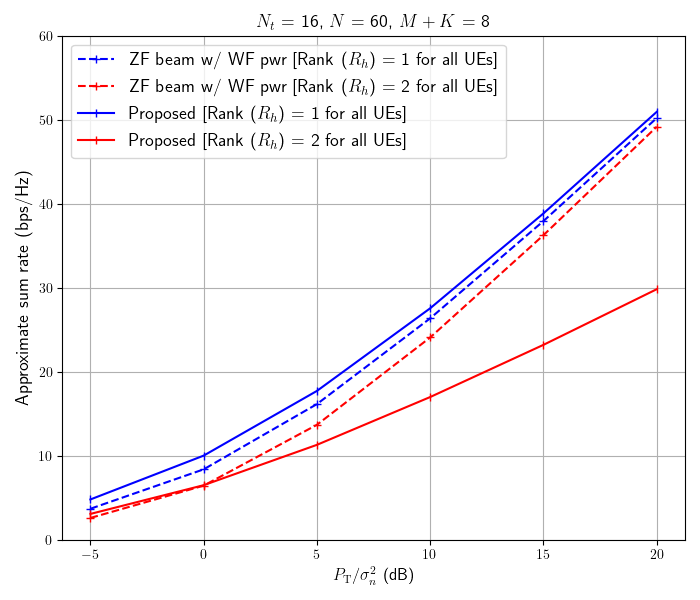
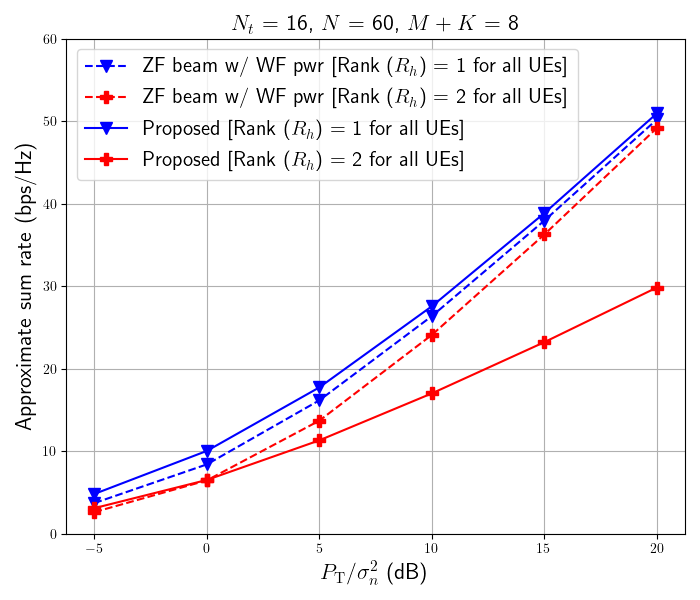
added

diff --git a/plot3.py b/plot3.py
@@ -46,34 +46,34 @@ plt.figure(figsize=(7, 6))
 
 # Plot lines
 #plottingLine(rateZF6, 'ZF-SBF [M+K=6]', 'dotted', 'red', '+')
-plottingLine(rateNNSuper6, 'Proposed [M+K=6]', 'solid', 'red', 'o')
-plottingLine(rateWF6, 'ZF beam w/ WF pwr [M+K=6]', 'dashed', 'red', 'x')
+plottingLine(rateNNSuper6, 'Proposed [M+K=6]', 'solid', 'red', 'P')
+plottingLine(rateWF6, 'ZF beam w/ WF pwr [M+K=6]', 'dashed', 'red', 'P')
 
 #plottingLine(rateZF8, 'ZF-SBF [M+K=8]', 'dotted', 'green', '+')
-plottingLine(rateNNSuper8, 'Proposed [M+K=8]', 'solid', 'green', 'o')
-plottingLine(rateWF8, 'ZF beam w/ WF pwr [M+K=8]', 'dashed', 'green', 'x')
+plottingLine(rateNNSuper8, 'Proposed [M+K=8]', 'solid', 'green', 'v')
+plottingLine(rateWF8, 'ZF beam w/ WF pwr [M+K=8]', 'dashed', 'green', 'v')
 
 #plottingLine(rateZF10, 'ZF-SBF [M+K=10]', 'dotted', 'blue', '+')
-plottingLine(rateNNSuper10, 'Proposed [M+K=10]', 'solid', 'blue', 'o')
-plottingLine(rateWF10, 'ZF beam w/ WF pwr [M+K=10]', 'dashed', 'blue', 'x')
+plottingLine(rateNNSuper10, 'Proposed [M+K=10]', 'solid', 'blue', 'd')
+plottingLine(rateWF10, 'ZF beam w/ WF pwr [M+K=10]', 'dashed', 'blue', 'd')
 
 # Legend
-plt.legend(loc='upper left', ncol=1, fontsize=13)
+plt.legend(loc='upper left', ncol=1, fontsize=16)
 plt.ylim([global_ymin, global_ymax])
 
 # Axes labels
 plt.rc('text', usetex=True)
-plt.xlabel(r'$P_{\mathrm{T}}/\sigma_n^2$ (dB)', fontsize=12)
-plt.ylabel('Approximate sum rate (bps/Hz)', fontsize=13)
+plt.xlabel(r'$P_{\mathrm{T}}/\sigma_n^2$ (dB)', fontsize=16)
+plt.ylabel('Approximate sum rate (bps/Hz)', fontsize=16)
 
 # Title
-plt.title(r'$N_t$ = {}, N = {}'.format(Nt, N), fontsize=13)
+plt.title(r'$N_t$ = {}, N = {}'.format(Nt, N), fontsize=16)
 
 plt.grid(True) 
 plt.tight_layout()  # Adjust layout to prevent clipping of legend
 #plt.savefig(f'Plotting/fig3.tiff')  
 plt.savefig(f'Plotting/fig3.png')  
-#plt.savefig('Plotting/fig3.eps', format='eps') 
+plt.savefig('Plotting/fig3.eps', format='eps') 
 plt.close()
 
 print("Done!")

diff --git a/plot2.py b/plot2.py
@@ -46,34 +46,34 @@ plt.figure(figsize=(7, 6))
 
 # Plot lines
 #plottingLine(rateZF6, 'ZF-SBF [M+K=6]', 'dotted', 'red', '+')
-plottingLine(rateNNSuper6, 'Proposed [M+K=6]', 'solid', 'red', 'o')
-plottingLine(rateWF6, 'ZF beam w/ WF pwr [M+K=6]', 'dashed', 'red', 'x')
+plottingLine(rateNNSuper6, 'Proposed [M+K=6]', 'solid', 'red', 'P')
+plottingLine(rateWF6, 'ZF beam w/ WF pwr [M+K=6]', 'dashed', 'red', 'P')
 
 #plottingLine(rateZF8, 'ZF-SBF [M+K=8]', 'dotted', 'green', '+')
-plottingLine(rateNNSuper8, 'Proposed [M+K=8]', 'solid', 'green', 'o')
-plottingLine(rateWF8, 'ZF beam w/ WF pwr [M+K=8]', 'dashed', 'green', 'x')
+plottingLine(rateNNSuper8, 'Proposed [M+K=8]', 'solid', 'green', 'v')
+plottingLine(rateWF8, 'ZF beam w/ WF pwr [M+K=8]', 'dashed', 'green', 'v')
 
 #plottingLine(rateZF10, 'ZF-SBF [M+K=10]', 'dotted', 'blue', '+')
-plottingLine(rateNNSuper10, 'Proposed [M+K=10]', 'solid', 'blue', 'o')
-plottingLine(rateWF10, 'ZF beam w/ WF pwr [M+K=10]', 'dashed', 'blue', 'x')
+plottingLine(rateNNSuper10, 'Proposed [M+K=10]', 'solid', 'blue', 'd')
+plottingLine(rateWF10, 'ZF beam w/ WF pwr [M+K=10]', 'dashed', 'blue', 'd')
 
 # Legend
-plt.legend(loc='upper left', ncol=1, fontsize=13)
+plt.legend(loc='upper left', ncol=1, fontsize=16)
 plt.ylim([global_ymin, global_ymax])
 
 # Axes labels
 plt.rc('text', usetex=True)
-plt.xlabel(r'$P_{\mathrm{T}}/\sigma_n^2$ (dB)', fontsize=12)
-plt.ylabel('Approximate sum rate (bps/Hz)', fontsize=13)
+plt.xlabel(r'$P_{\mathrm{T}}/\sigma_n^2$ (dB)', fontsize=16)
+plt.ylabel('Approximate sum rate (bps/Hz)', fontsize=16)
 
 # Title
-plt.title(r'$N_t$ = {}, N = {}'.format(Nt, N), fontsize=13)
+plt.title(r'$N_t$ = {}, N = {}'.format(Nt, N), fontsize=16)
 
 plt.grid(True) 
 plt.tight_layout()  # Adjust layout to prevent clipping of legend
 #plt.savefig('Plotting/fig2.tiff')
 plt.savefig('Plotting/fig2.png')  
-#plt.savefig('Plotting/fig2.eps', format='eps')
+plt.savefig('Plotting/fig2.eps', format='eps')
 plt.close()
 
 print("Done!")

diff --git a/plot4.py b/plot4.py
@@ -41,28 +41,28 @@ plt.figure(figsize=(7, 6))
 
 # Plot lines
 #plottingLine(rateZF60, 'ZF-SBF [N = 60]', 'dotted', 'green', '+')
-plottingLine(rateWFcase1, r'ZF beam w/ WF pwr [Rank ($R_h$) = 1 for all UEs]', 'dashed', 'blue', '+')
-plottingLine(rateWFcase2, r'ZF beam w/ WF pwr [Rank ($R_h$) = 2 for all UEs]', 'dashed', 'red', '+')
-plottingLine(rateNNSupercase1, r'Proposed [Rank ($R_h$) = 1 for all UEs]', 'solid', 'blue', '|')
-plottingLine(rateNNSupercase2, r'Proposed [Rank ($R_h$) = 2 for all UEs]', 'solid', 'red', '|')
+plottingLine(rateWFcase1, r'ZF beam w/ WF pwr [Rank ($R_h$) = 1 for all UEs]', 'dashed', 'blue', 'v')
+plottingLine(rateWFcase2, r'ZF beam w/ WF pwr [Rank ($R_h$) = 2 for all UEs]', 'dashed', 'red', 'P')
+plottingLine(rateNNSupercase1, r'Proposed [Rank ($R_h$) = 1 for all UEs]', 'solid', 'blue', 'v')
+plottingLine(rateNNSupercase2, r'Proposed [Rank ($R_h$) = 2 for all UEs]', 'solid', 'red', 'P')
 
 # Legend
-plt.legend(loc='upper left', ncol=1, fontsize=13)
+plt.legend(loc='upper left', ncol=1, fontsize=15)
 plt.ylim([global_ymin, global_ymax])
 
 # Axes labels
 plt.rc('text', usetex=True)
-plt.xlabel(r'$P_{\mathrm{T}}/\sigma_n^2$ (dB)', fontsize=12)
-plt.ylabel('Approximate sum rate (bps/Hz)', fontsize=13)
+plt.xlabel(r'$P_{\mathrm{T}}/\sigma_n^2$ (dB)', fontsize=16)
+plt.ylabel('Approximate sum rate (bps/Hz)', fontsize=16)
 
 # Title
-plt.title(r'$N_t$ = {}, $N$ = {}, $M + K$ = {}'.format(Nt, N, totalUsers), fontsize=13)
+plt.title(r'$N_t$ = {}, $N$ = {}, $M + K$ = {}'.format(Nt, N, totalUsers), fontsize=16)
 
 plt.grid(True) 
 plt.tight_layout()  # Adjust layout to prevent clipping of legend
 #plt.savefig(f'Plotting/fig4.tiff')  
 plt.savefig(f'Plotting/fig4.png')  
-#plt.savefig('Plotting/fig4.eps', format='eps')
+plt.savefig('Plotting/fig4.eps', format='eps')
 plt.close()
 
 print("Done!")

diff --git a/NNUtils.py b/NNUtils.py
@@ -160,7 +160,7 @@ def lossCurve(history, userSize, type, snrFixed):
   plt.grid()
   
 def plottingLine(Data, Label, LineStyle, Color, Marker):
-  plt.plot(range(-5, 25, 5), Data, label=Label, linestyle=LineStyle, color=Color, marker=Marker)
+  plt.plot(range(-5, 25, 5), Data, label=Label, linestyle=LineStyle, color=Color, marker=Marker, markersize=8)
   
 
 
